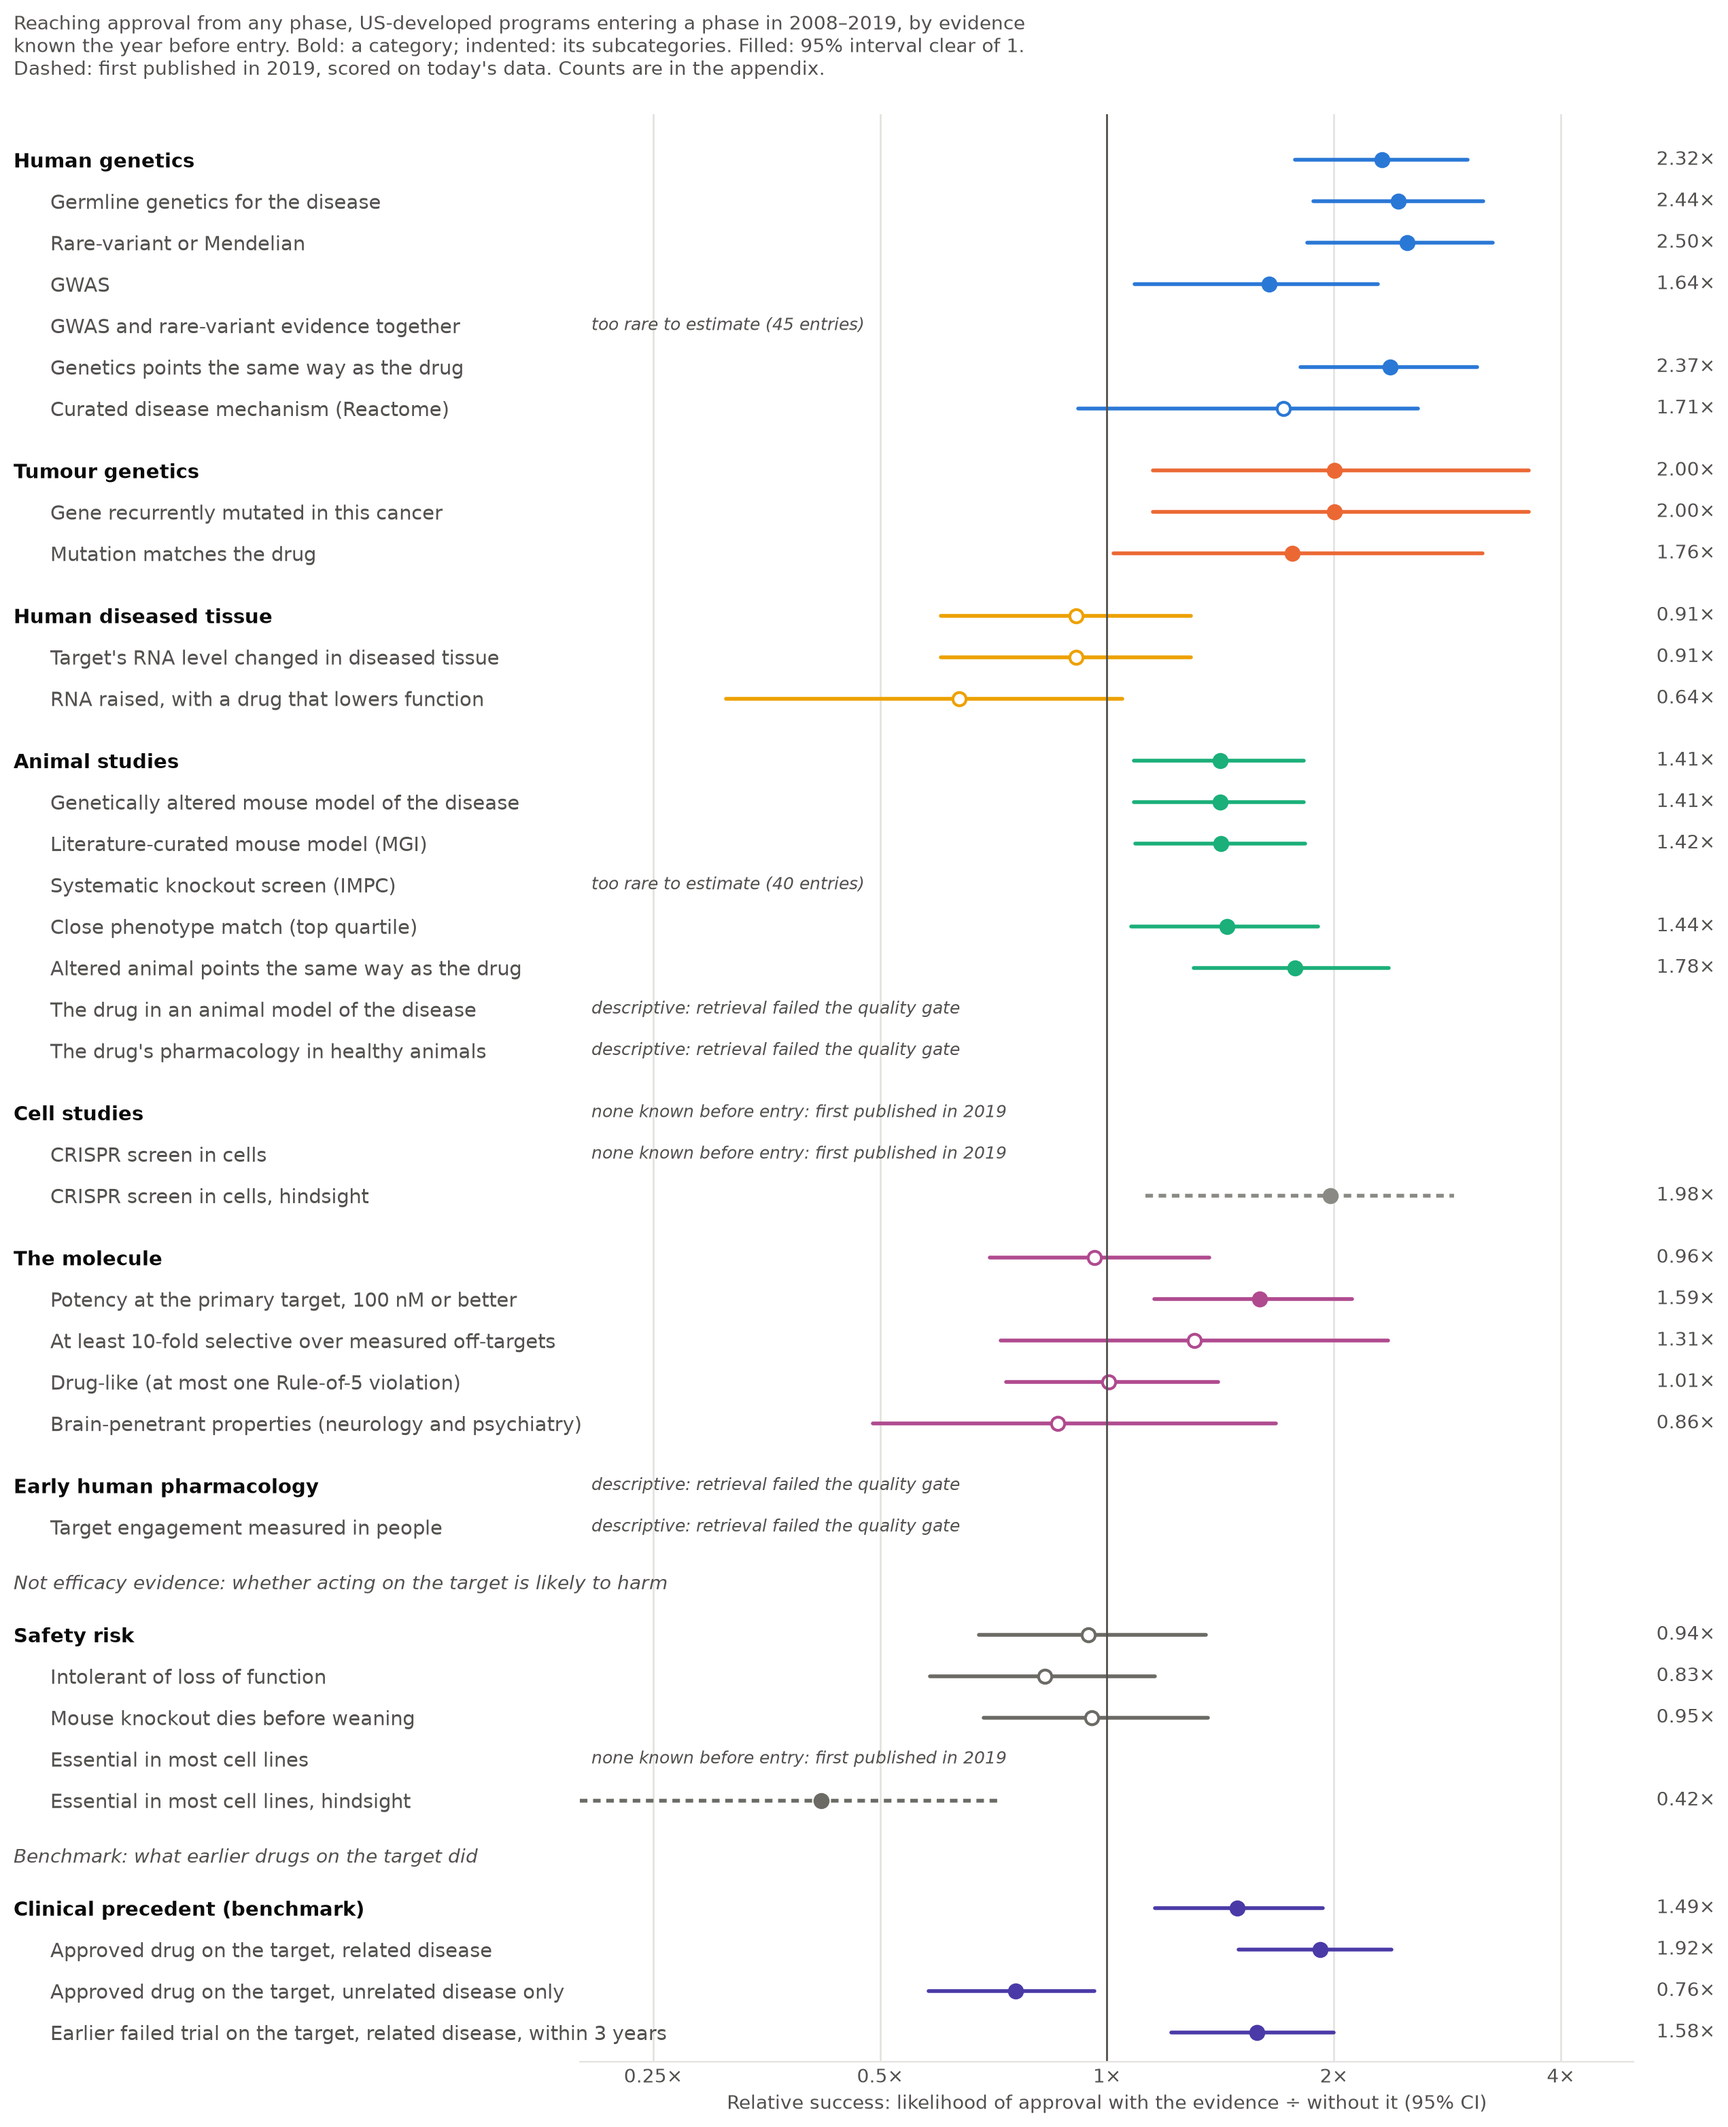
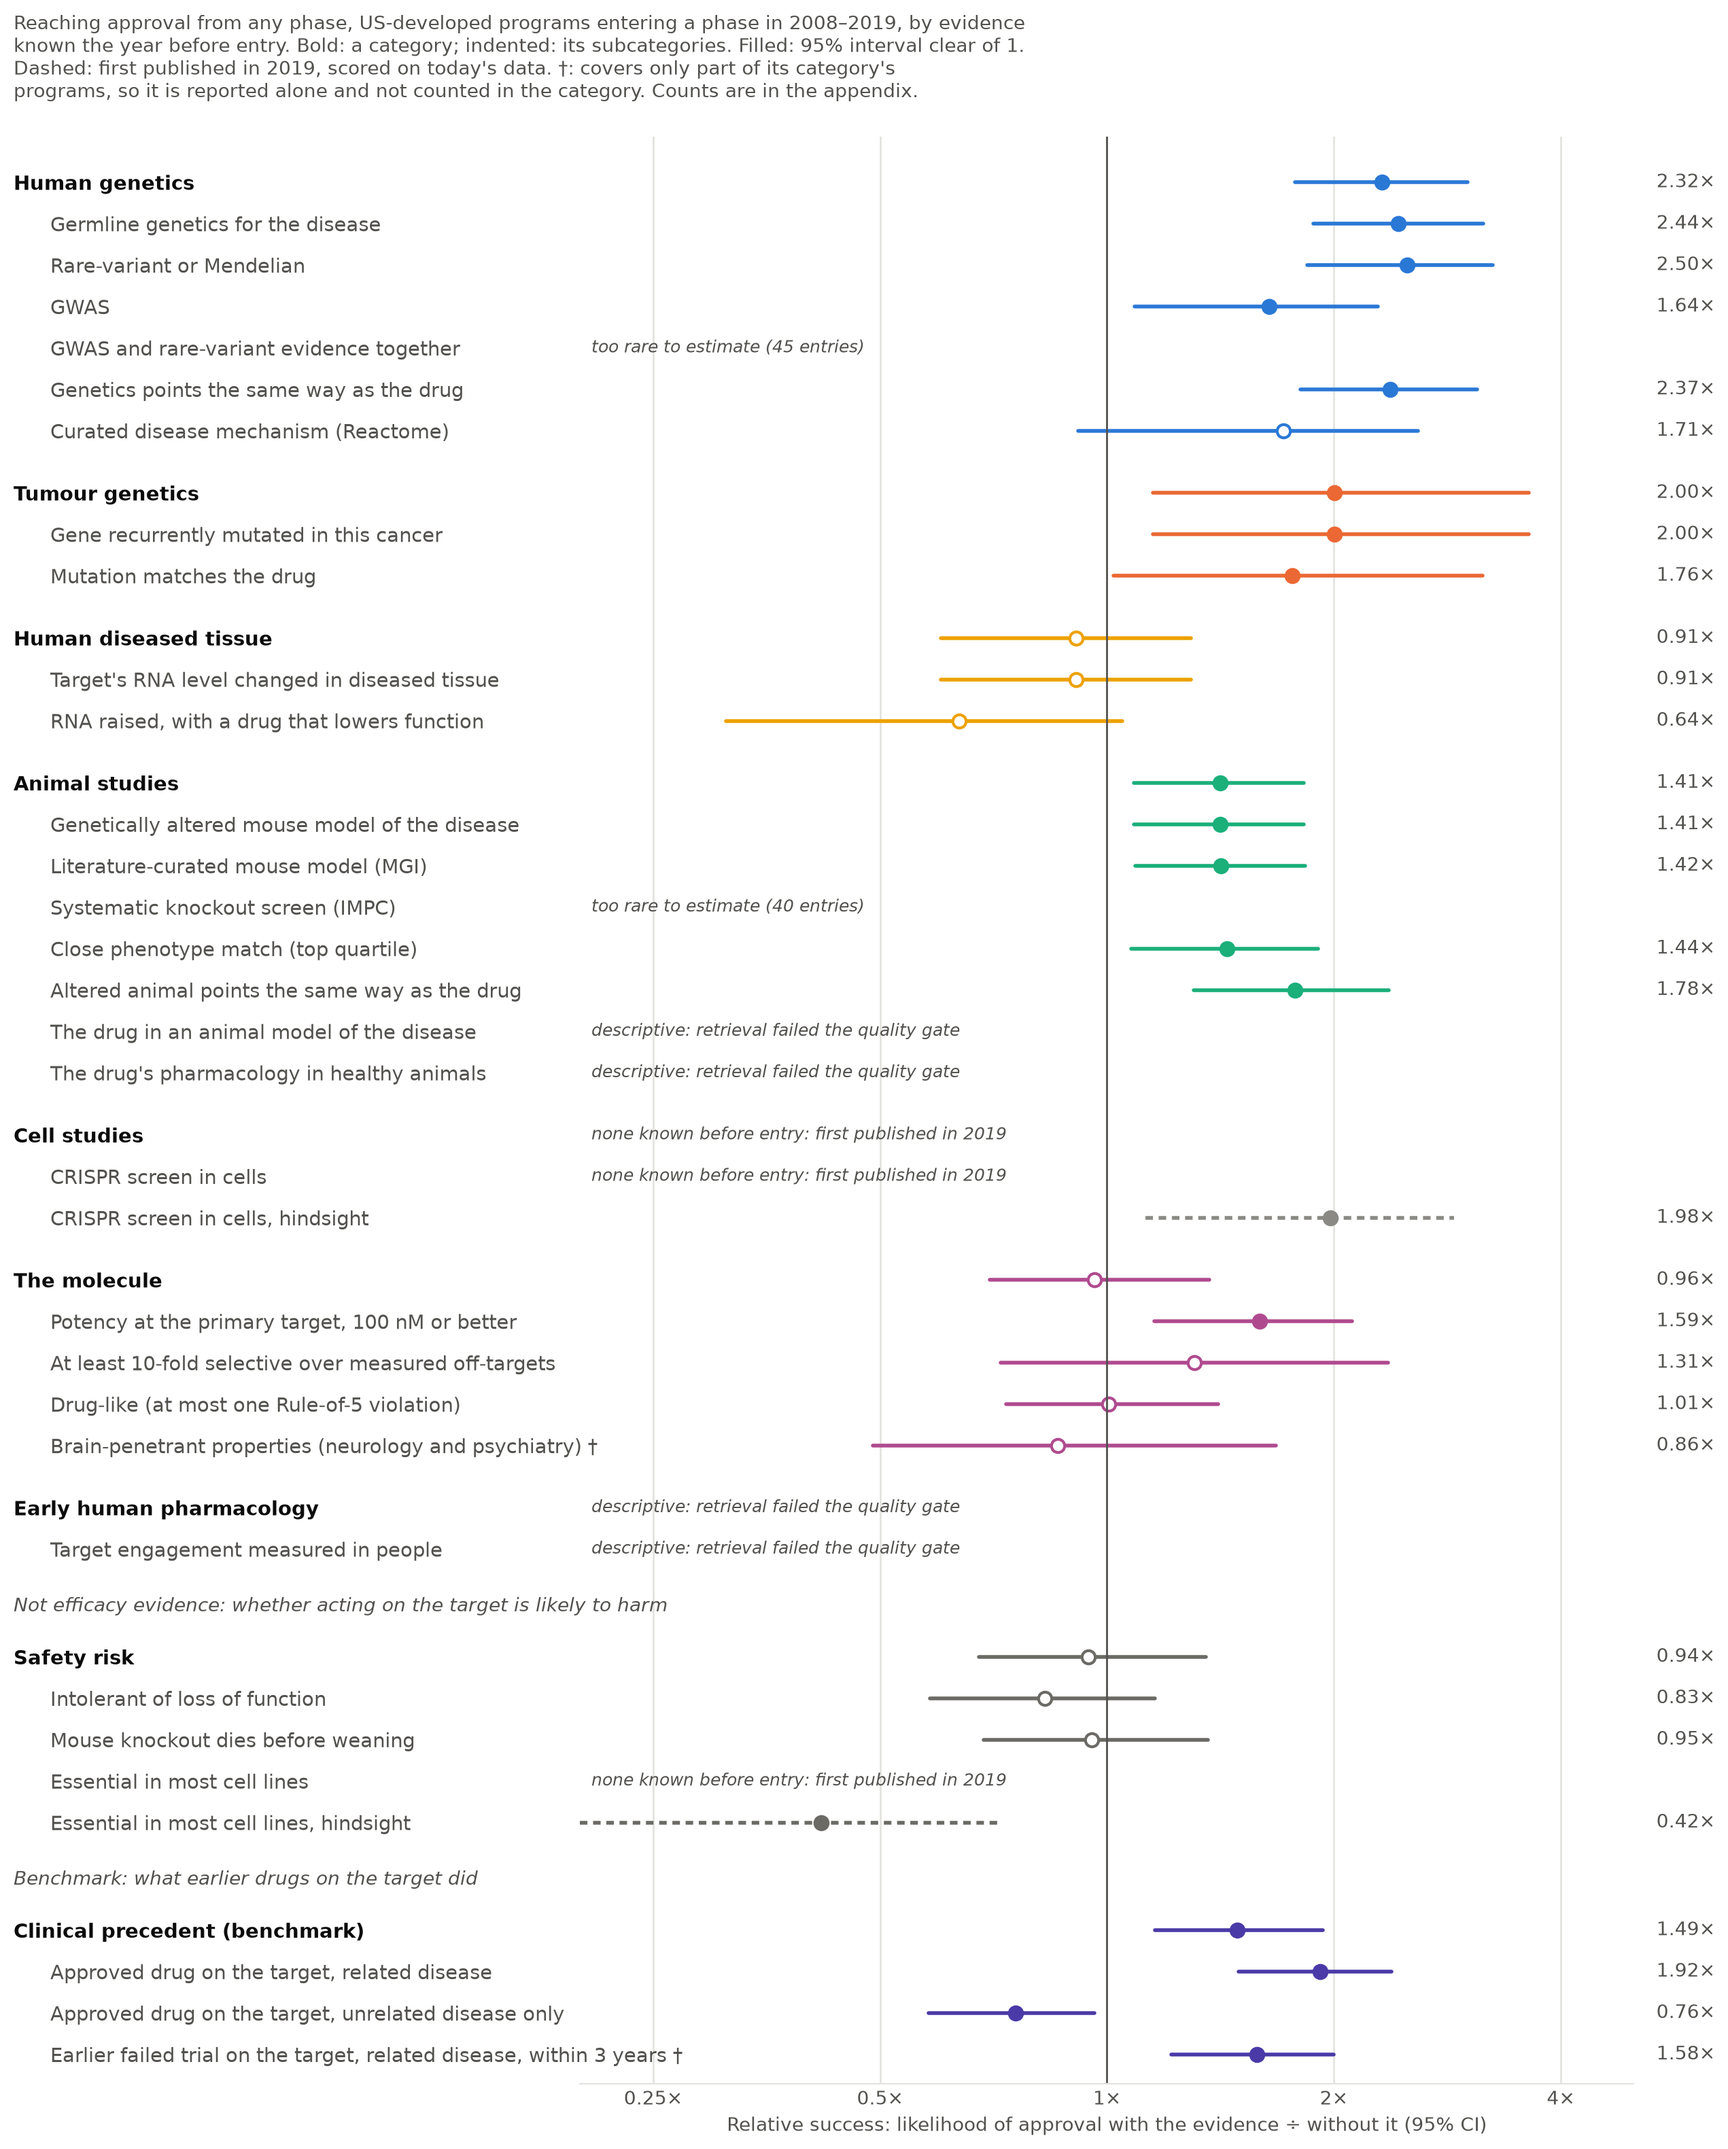
Publish the evidence categories to the report doc; the chart marks lines reported apart from their category
The appendix now says a third, user-directed literature attempt is under way instead of
that the plan allows none.

diff --git a/report/narrative/appendix_categories.md b/report/narrative/appendix_categories.md
@@ -20,4 +20,4 @@
 
 **Hypotheses added.** N1 (selectivity), N2 (drug-likeness, and brain-penetrant properties in neurology and psychiatry, tested together by taking the larger p) and N3 (potency outside oncology, with human genetics and drug-likeness held fixed) are Holm-corrected as a family of three. N3 first tested the whole molecule category; on 2026-11-04, before any outcome was tested, it was narrowed to potency, because drug-likeness alone covered most small molecules and would have dominated the category.
 
-**Literature lines.** Whether the drug itself had been tested in an animal model of the disease, its pharmacology in healthy animals, and target engagement measured in people were to come from published abstracts, screened by an LLM. The plan admitted them only if, on a seeded pilot, retrieval found at least {{evidence_analysis.literature_gate.v1.gates.recall|pct0}} of the qualifying studies that agents with web access listed blind, a second model agreed with the screen (κ ≥ {{evidence_analysis.literature_gate.v1.gates.kappa|x2}}), and at least {{evidence_analysis.literature_gate.v1.gates.phase2_coverage|pct0}} of Phase 2 entries carried the line. Screening was accurate, but retrieval was not: a search by drug and disease found {{evidence_analysis.literature_gate.v1.animal_disease.recall|pct0}}, {{evidence_analysis.literature_gate.v1.animal_healthy.recall|pct0}} and {{evidence_analysis.literature_gate.v1.human_engagement.recall|pct0}} of the reference studies of the three kinds. One second version, fixed in advance and scored on a fresh reference set, searched by every name of the drug alone and found {{evidence_analysis.literature_gate.v2.animal_disease.recall_pubmed_indexed|pct0}}, {{evidence_analysis.literature_gate.v2.animal_healthy.recall_pubmed_indexed|pct0}} and {{evidence_analysis.literature_gate.v2.human_engagement.recall_pubmed_indexed|pct0}} of the reference studies indexed in PubMed. No line passed, and the plan allows no third attempt, so the three lines are left out of every estimate. Papers name animal models by their assay rather than the disease, and well-studied drugs have more abstracts than any search can keep; much of this evidence also sits in conference abstracts and company filings that no search of abstracts reaches.
+**Literature lines.** Whether the drug itself had been tested in an animal model of the disease, its pharmacology in healthy animals, and target engagement measured in people were to come from published abstracts, screened by an LLM. The plan admitted them only if, on a seeded pilot, retrieval found at least {{evidence_analysis.literature_gate.v1.gates.recall|pct0}} of the qualifying studies that agents with web access listed blind, a second model agreed with the screen (κ ≥ {{evidence_analysis.literature_gate.v1.gates.kappa|x2}}), and at least {{evidence_analysis.literature_gate.v1.gates.phase2_coverage|pct0}} of Phase 2 entries carried the line. Screening was accurate, but retrieval was not: a search by drug and disease found {{evidence_analysis.literature_gate.v1.animal_disease.recall|pct0}}, {{evidence_analysis.literature_gate.v1.animal_healthy.recall|pct0}} and {{evidence_analysis.literature_gate.v1.human_engagement.recall|pct0}} of the reference studies of the three kinds. One second version, fixed in advance and scored on a fresh reference set, searched by every name of the drug alone and found {{evidence_analysis.literature_gate.v2.animal_disease.recall_pubmed_indexed|pct0}}, {{evidence_analysis.literature_gate.v2.animal_healthy.recall_pubmed_indexed|pct0}} and {{evidence_analysis.literature_gate.v2.human_engagement.recall_pubmed_indexed|pct0}} of the reference studies indexed in PubMed. Neither version passed, so the three lines are left out of every estimate. The plan stopped there; at the user's direction it was amended to allow a third attempt, with no cap on abstracts per drug and with Firecrawl's research index, scored on a third blind reference set. Any line that passes will be reported as passing on a third, user-directed attempt. Papers name animal models by their assay rather than the disease, and well-studied drugs have more abstracts than any search can keep; much of this evidence also sits in conference abstracts and company filings that no search of abstracts reaches.

diff --git a/REPORT.md b/REPORT.md
@@ -498,7 +498,7 @@ Of the registered rules only the benchmark met the bar (held-out risk ratio 2.44
 
 **Hypotheses added.** N1 (selectivity), N2 (drug-likeness, and brain-penetrant properties in neurology and psychiatry, tested together by taking the larger p) and N3 (potency outside oncology, with human genetics and drug-likeness held fixed) are Holm-corrected as a family of three. N3 first tested the whole molecule category; on 2026-11-04, before any outcome was tested, it was narrowed to potency, because drug-likeness alone covered most small molecules and would have dominated the category.
 
-**Literature lines.** Whether the drug itself had been tested in an animal model of the disease, its pharmacology in healthy animals, and target engagement measured in people were to come from published abstracts, screened by an LLM. The plan admitted them only if, on a seeded pilot, retrieval found at least 80% of the qualifying studies that agents with web access listed blind, a second model agreed with the screen (κ ≥ 0.60), and at least 8% of Phase 2 entries carried the line. Screening was accurate, but retrieval was not: a search by drug and disease found 22%, 22% and 25% of the reference studies of the three kinds. One second version, fixed in advance and scored on a fresh reference set, searched by every name of the drug alone and found 48%, 29% and 59% of the reference studies indexed in PubMed. No line passed, and the plan allows no third attempt, so the three lines are left out of every estimate. Papers name animal models by their assay rather than the disease, and well-studied drugs have more abstracts than any search can keep; much of this evidence also sits in conference abstracts and company filings that no search of abstracts reaches.
+**Literature lines.** Whether the drug itself had been tested in an animal model of the disease, its pharmacology in healthy animals, and target engagement measured in people were to come from published abstracts, screened by an LLM. The plan admitted them only if, on a seeded pilot, retrieval found at least 80% of the qualifying studies that agents with web access listed blind, a second model agreed with the screen (κ ≥ 0.60), and at least 8% of Phase 2 entries carried the line. Screening was accurate, but retrieval was not: a search by drug and disease found 22%, 22% and 25% of the reference studies of the three kinds. One second version, fixed in advance and scored on a fresh reference set, searched by every name of the drug alone and found 48%, 29% and 59% of the reference studies indexed in PubMed. Neither version passed, so the three lines are left out of every estimate. The plan stopped there; at the user's direction it was amended to allow a third attempt, with no cap on abstracts per drug and with Firecrawl's research index, scored on a third blind reference set. Any line that passes will be reported as passing on a third, user-directed attempt. Papers name animal models by their assay rather than the disease, and well-studied drugs have more abstracts than any search can keep; much of this evidence also sits in conference abstracts and company filings that no search of abstracts reaches.
 
 
 ### Limitations
